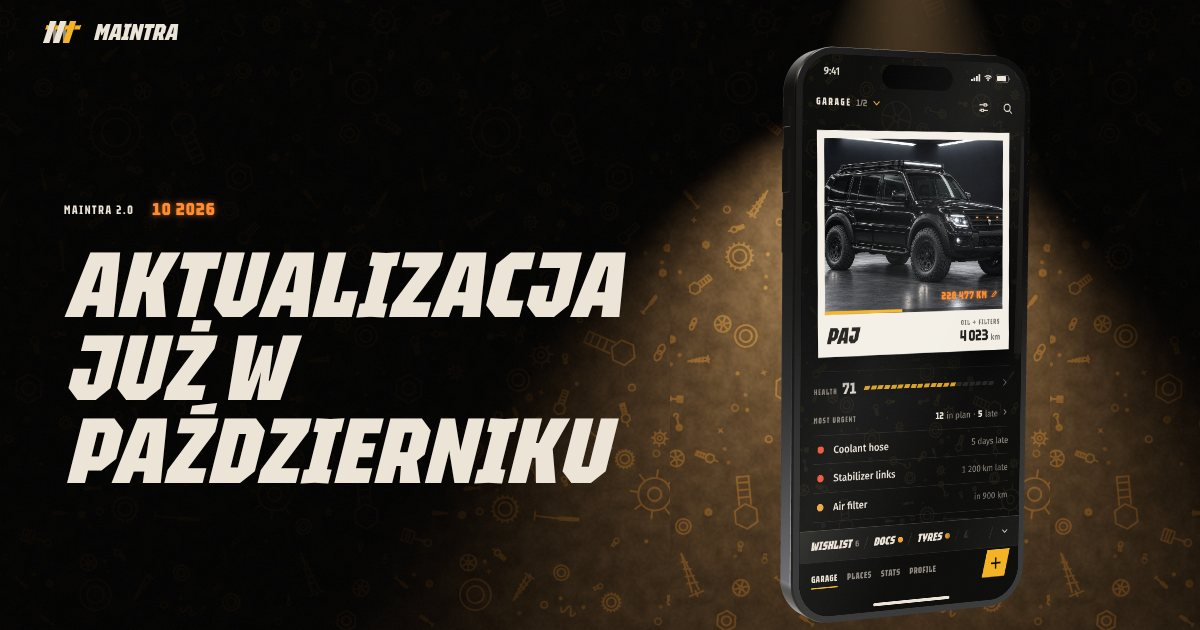
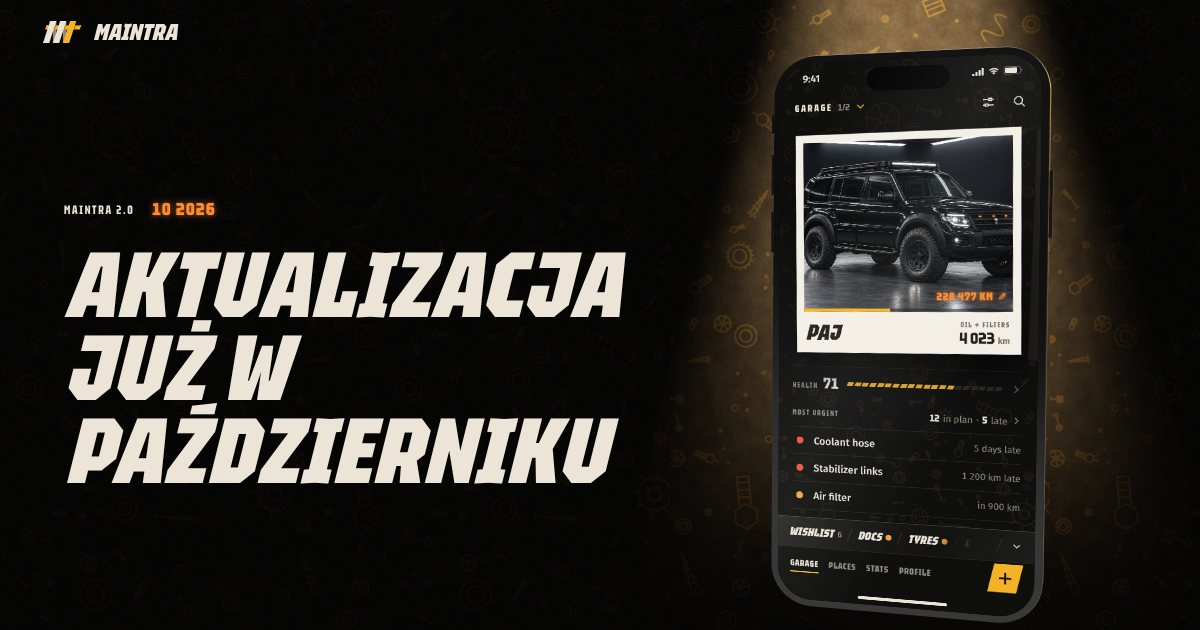
chore(home): share cards with the straight beam and the phone facing the copy
Claude-Session: https://claude.ai/code/session_016aUJLqTyLz23sov4eeqFzj

Changed region(s): [[0.37, 0.0, 1.0, 1.0]]

diff --git a/uk/index.html b/uk/index.html
@@ -23,13 +23,13 @@
 <meta property="og:title" content="Maintra 2.0 · Оновлення вже в жовтні">
 <meta property="og:description" content="Сервісна книжка для тих, хто сам дбає про своє авто. Перероблена, починаючи з першого екрана. Спробуй просто на сторінці.">
 <meta property="og:url" content="https://maintra.me/uk/">
-<meta property="og:image" content="https://maintra.me/assets/home/og/uk.jpg?v=2f5c5afa">
+<meta property="og:image" content="https://maintra.me/assets/home/og/uk.jpg?v=f96b594c">
 <meta property="og:image:width" content="1200">
 <meta property="og:image:height" content="630">
 <meta property="og:image:alt" content="Maintra 2.0 · Оновлення вже в жовтні">
 <meta property="og:locale" content="uk_UA">
 <meta name="twitter:card" content="summary_large_image">
-<meta name="twitter:image" content="https://maintra.me/assets/home/og/uk.jpg?v=2f5c5afa">
+<meta name="twitter:image" content="https://maintra.me/assets/home/og/uk.jpg?v=f96b594c">
 <meta name="theme-color" content="#0B0B0A">
 <script>
 (function () {

diff --git a/ar/index.html b/ar/index.html
@@ -23,13 +23,13 @@
 <meta property="og:title" content="Maintra 2.0 · تحديث قادم في أكتوبر">
 <meta property="og:description" content="دفتر الصيانة لمن يعتنون بسياراتهم بأنفسهم، أُعيد بناؤه من أول شاشة. جرّبه مباشرة على هذه الصفحة.">
 <meta property="og:url" content="https://maintra.me/ar/">
-<meta property="og:image" content="https://maintra.me/assets/home/og/ar.jpg?v=a6e2ddcb">
+<meta property="og:image" content="https://maintra.me/assets/home/og/ar.jpg?v=f8f4e38e">
 <meta property="og:image:width" content="1200">
 <meta property="og:image:height" content="630">
 <meta property="og:image:alt" content="Maintra 2.0 · تحديث قادم في أكتوبر">
 <meta property="og:locale" content="ar_AR">
 <meta name="twitter:card" content="summary_large_image">
-<meta name="twitter:image" content="https://maintra.me/assets/home/og/ar.jpg?v=a6e2ddcb">
+<meta name="twitter:image" content="https://maintra.me/assets/home/og/ar.jpg?v=f8f4e38e">
 <meta name="theme-color" content="#0B0B0A">
 <script>
 (function () {

diff --git a/fr/index.html b/fr/index.html
@@ -23,13 +23,13 @@
 <meta property="og:title" content="Maintra 2.0 · La mise à jour arrive en octobre">
 <meta property="og:description" content="Le carnet d'entretien pour ceux qui s'occupent eux-mêmes de leur voiture, refait à neuf dès le premier écran. Essayez-le directement sur la page.">
 <meta property="og:url" content="https://maintra.me/fr/">
-<meta property="og:image" content="https://maintra.me/assets/home/og/fr.jpg?v=fc378870">
+<meta property="og:image" content="https://maintra.me/assets/home/og/fr.jpg?v=81a66320">
 <meta property="og:image:width" content="1200">
 <meta property="og:image:height" content="630">
 <meta property="og:image:alt" content="Maintra 2.0 · La mise à jour arrive en octobre">
 <meta property="og:locale" content="fr_FR">
 <meta name="twitter:card" content="summary_large_image">
-<meta name="twitter:image" content="https://maintra.me/assets/home/og/fr.jpg?v=fc378870">
+<meta name="twitter:image" content="https://maintra.me/assets/home/og/fr.jpg?v=81a66320">
 <meta name="theme-color" content="#0B0B0A">
 <script>
 (function () {

diff --git a/ja/index.html b/ja/index.html
@@ -23,13 +23,13 @@
 <meta property="og:title" content="Maintra 2.0 · 10月にアップデート">
 <meta property="og:description" content="愛車の面倒を自分でみる人のための整備手帳を、最初の画面から作り直しました。このページでそのまま試せます。">
 <meta property="og:url" content="https://maintra.me/ja/">
-<meta property="og:image" content="https://maintra.me/assets/home/og/ja.jpg?v=14829071">
+<meta property="og:image" content="https://maintra.me/assets/home/og/ja.jpg?v=cd809ff1">
 <meta property="og:image:width" content="1200">
 <meta property="og:image:height" content="630">
 <meta property="og:image:alt" content="Maintra 2.0 · 10月にアップデート">
 <meta property="og:locale" content="ja_JP">
 <meta name="twitter:card" content="summary_large_image">
-<meta name="twitter:image" content="https://maintra.me/assets/home/og/ja.jpg?v=14829071">
+<meta name="twitter:image" content="https://maintra.me/assets/home/og/ja.jpg?v=cd809ff1">
 <meta name="theme-color" content="#0B0B0A">
 <script>
 (function () {

diff --git a/it/index.html b/it/index.html
@@ -23,13 +23,13 @@
 <meta property="og:title" content="Maintra 2.0 · L'aggiornamento arriva a ottobre">
 <meta property="og:description" content="Il libretto di manutenzione per chi alla propria auto ci pensa da sé, rifatto fin dalla prima schermata. Provalo direttamente sulla pagina.">
 <meta property="og:url" content="https://maintra.me/it/">
-<meta property="og:image" content="https://maintra.me/assets/home/og/it.jpg?v=8823f3ba">
+<meta property="og:image" content="https://maintra.me/assets/home/og/it.jpg?v=72e61095">
 <meta property="og:image:width" content="1200">
 <meta property="og:image:height" content="630">
 <meta property="og:image:alt" content="Maintra 2.0 · L'aggiornamento arriva a ottobre">
 <meta property="og:locale" content="it_IT">
 <meta name="twitter:card" content="summary_large_image">
-<meta name="twitter:image" content="https://maintra.me/assets/home/og/it.jpg?v=8823f3ba">
+<meta name="twitter:image" content="https://maintra.me/assets/home/og/it.jpg?v=72e61095">
 <meta name="theme-color" content="#0B0B0A">
 <script>
 (function () {

diff --git a/pl/index.html b/pl/index.html
@@ -23,13 +23,13 @@
 <meta property="og:title" content="Maintra 2.0 · Aktualizacja już w październiku">
 <meta property="og:description" content="Książka serwisowa dla tych, którzy sami dbają o swoje auto. Zbudowana od nowa, od pierwszego ekranu. Wypróbuj ją od razu na stronie.">
 <meta property="og:url" content="https://maintra.me/pl/">
-<meta property="og:image" content="https://maintra.me/assets/home/og/pl.jpg?v=22586938">
+<meta property="og:image" content="https://maintra.me/assets/home/og/pl.jpg?v=a0fd54d7">
 <meta property="og:image:width" content="1200">
 <meta property="og:image:height" content="630">
 <meta property="og:image:alt" content="Maintra 2.0 · Aktualizacja już w październiku">
 <meta property="og:locale" content="pl_PL">
 <meta name="twitter:card" content="summary_large_image">
-<meta name="twitter:image" content="https://maintra.me/assets/home/og/pl.jpg?v=22586938">
+<meta name="twitter:image" content="https://maintra.me/assets/home/og/pl.jpg?v=a0fd54d7">
 <meta name="theme-color" content="#0B0B0A">
 <script>
 (function () {

diff --git a/ko/index.html b/ko/index.html
@@ -23,13 +23,13 @@
 <meta property="og:title" content="Maintra 2.0 · 10월 업데이트 예정">
 <meta property="og:description" content="내 차를 직접 챙기는 사람을 위한 정비 수첩, 첫 화면부터 새로 만들었어요. 이 페이지에서 바로 써 보세요.">
 <meta property="og:url" content="https://maintra.me/ko/">
-<meta property="og:image" content="https://maintra.me/assets/home/og/ko.jpg?v=1bd5de6c">
+<meta property="og:image" content="https://maintra.me/assets/home/og/ko.jpg?v=0ddb91be">
 <meta property="og:image:width" content="1200">
 <meta property="og:image:height" content="630">
 <meta property="og:image:alt" content="Maintra 2.0 · 10월 업데이트 예정">
 <meta property="og:locale" content="ko_KR">
 <meta name="twitter:card" content="summary_large_image">
-<meta name="twitter:image" content="https://maintra.me/assets/home/og/ko.jpg?v=1bd5de6c">
+<meta name="twitter:image" content="https://maintra.me/assets/home/og/ko.jpg?v=0ddb91be">
 <meta name="theme-color" content="#0B0B0A">
 <script>
 (function () {

diff --git a/de/index.html b/de/index.html
@@ -23,13 +23,13 @@
 <meta property="og:title" content="Maintra 2.0 · Update kommt im Oktober">
 <meta property="og:description" content="Das Serviceheft für alle, die sich selbst um ihr Auto kümmern, vom ersten Bildschirm an neu gebaut. Probier es direkt hier auf der Seite aus.">
 <meta property="og:url" content="https://maintra.me/de/">
-<meta property="og:image" content="https://maintra.me/assets/home/og/de.jpg?v=c5831a7e">
+<meta property="og:image" content="https://maintra.me/assets/home/og/de.jpg?v=0014ec90">
 <meta property="og:image:width" content="1200">
 <meta property="og:image:height" content="630">
 <meta property="og:image:alt" content="Maintra 2.0 · Update kommt im Oktober">
 <meta property="og:locale" content="de_DE">
 <meta name="twitter:card" content="summary_large_image">
-<meta name="twitter:image" content="https://maintra.me/assets/home/og/de.jpg?v=c5831a7e">
+<meta name="twitter:image" content="https://maintra.me/assets/home/og/de.jpg?v=0014ec90">
 <meta name="theme-color" content="#0B0B0A">
 <script>
 (function () {

diff --git a/es/index.html b/es/index.html
@@ -23,13 +23,13 @@
 <meta property="og:title" content="Maintra 2.0 · Actualización en octubre">
 <meta property="og:description" content="El libro de mantenimiento para quienes cuidan su propio auto, rehecho desde la primera pantalla. Pruébalo en esta misma página.">
 <meta property="og:url" content="https://maintra.me/es/">
-<meta property="og:image" content="https://maintra.me/assets/home/og/es.jpg?v=35fe8d38">
+<meta property="og:image" content="https://maintra.me/assets/home/og/es.jpg?v=45e9234f">
 <meta property="og:image:width" content="1200">
 <meta property="og:image:height" content="630">
 <meta property="og:image:alt" content="Maintra 2.0 · Actualización en octubre">
 <meta property="og:locale" content="es_ES">
 <meta name="twitter:card" content="summary_large_image">
-<meta name="twitter:image" content="https://maintra.me/assets/home/og/es.jpg?v=35fe8d38">
+<meta name="twitter:image" content="https://maintra.me/assets/home/og/es.jpg?v=45e9234f">
 <meta name="theme-color" content="#0B0B0A">
 <script>
 (function () {

diff --git a/index.html b/index.html
@@ -23,13 +23,13 @@
 <meta property="og:title" content="Maintra 2.0 · Update coming this October">
 <meta property="og:description" content="The service book for people who look after their own cars, rebuilt from the first screen. Try it right on the page.">
 <meta property="og:url" content="https://maintra.me/">
-<meta property="og:image" content="https://maintra.me/assets/home/og/en.jpg?v=4a7cb48e">
+<meta property="og:image" content="https://maintra.me/assets/home/og/en.jpg?v=b786503f">
 <meta property="og:image:width" content="1200">
 <meta property="og:image:height" content="630">
 <meta property="og:image:alt" content="Maintra 2.0 · Update coming this October">
 <meta property="og:locale" content="en_US">
 <meta name="twitter:card" content="summary_large_image">
-<meta name="twitter:image" content="https://maintra.me/assets/home/og/en.jpg?v=4a7cb48e">
+<meta name="twitter:image" content="https://maintra.me/assets/home/og/en.jpg?v=b786503f">
 <meta name="theme-color" content="#0B0B0A">
 <script>
 (function () {

diff --git a/zh/index.html b/zh/index.html
@@ -23,13 +23,13 @@
 <meta property="og:title" content="Maintra 2.0 · 今年 10 月更新">
 <meta property="og:description" content="一本保养手册，写给用心养车的人，这次从第一屏开始重做。在页面上就能直接试用。">
 <meta property="og:url" content="https://maintra.me/zh/">
-<meta property="og:image" content="https://maintra.me/assets/home/og/zh.jpg?v=0ebf6edb">
+<meta property="og:image" content="https://maintra.me/assets/home/og/zh.jpg?v=eace0c1c">
 <meta property="og:image:width" content="1200">
 <meta property="og:image:height" content="630">
 <meta property="og:image:alt" content="Maintra 2.0 · 今年 10 月更新">
 <meta property="og:locale" content="zh_CN">
 <meta name="twitter:card" content="summary_large_image">
-<meta name="twitter:image" content="https://maintra.me/assets/home/og/zh.jpg?v=0ebf6edb">
+<meta name="twitter:image" content="https://maintra.me/assets/home/og/zh.jpg?v=eace0c1c">
 <meta name="theme-color" content="#0B0B0A">
 <script>
 (function () {
